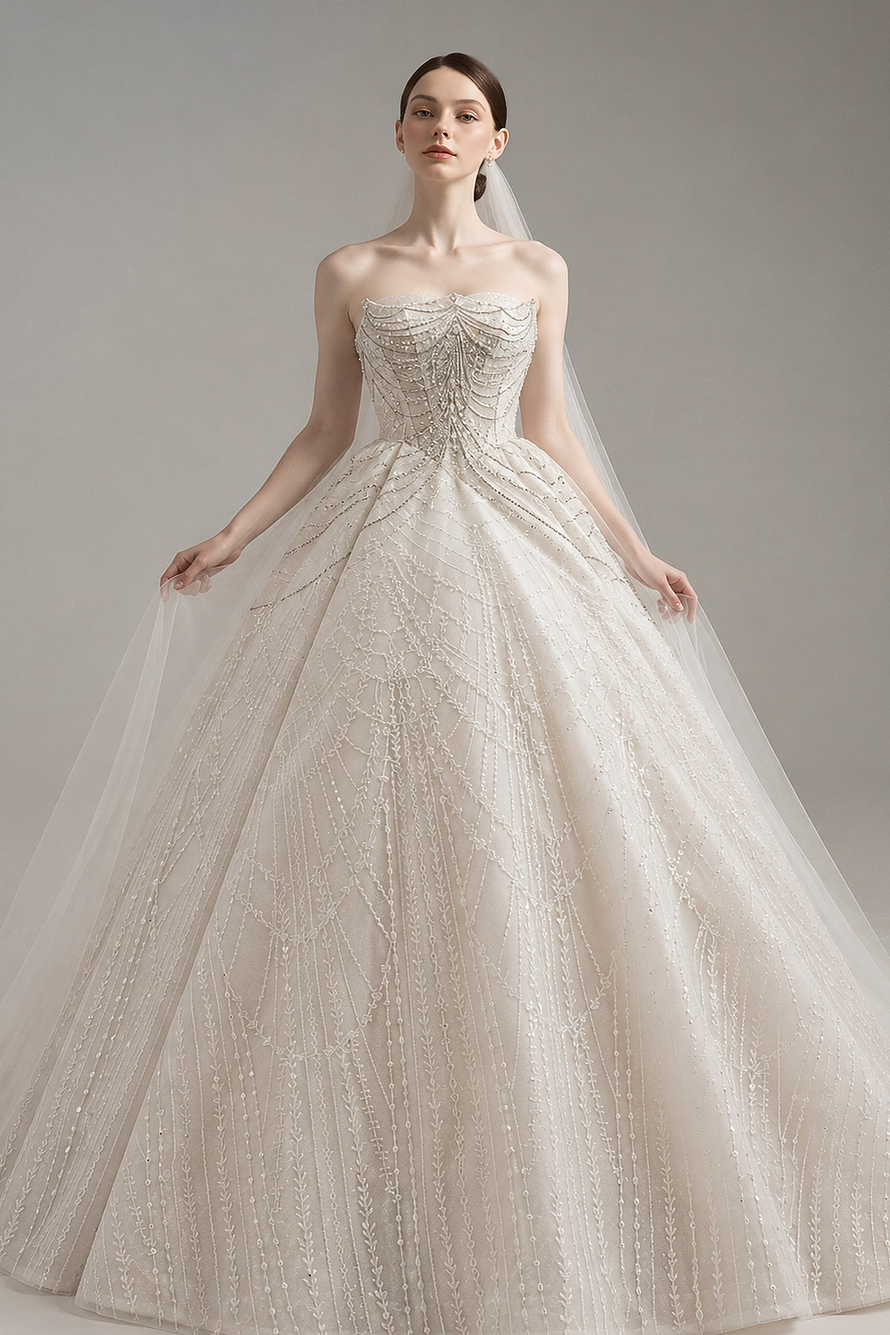
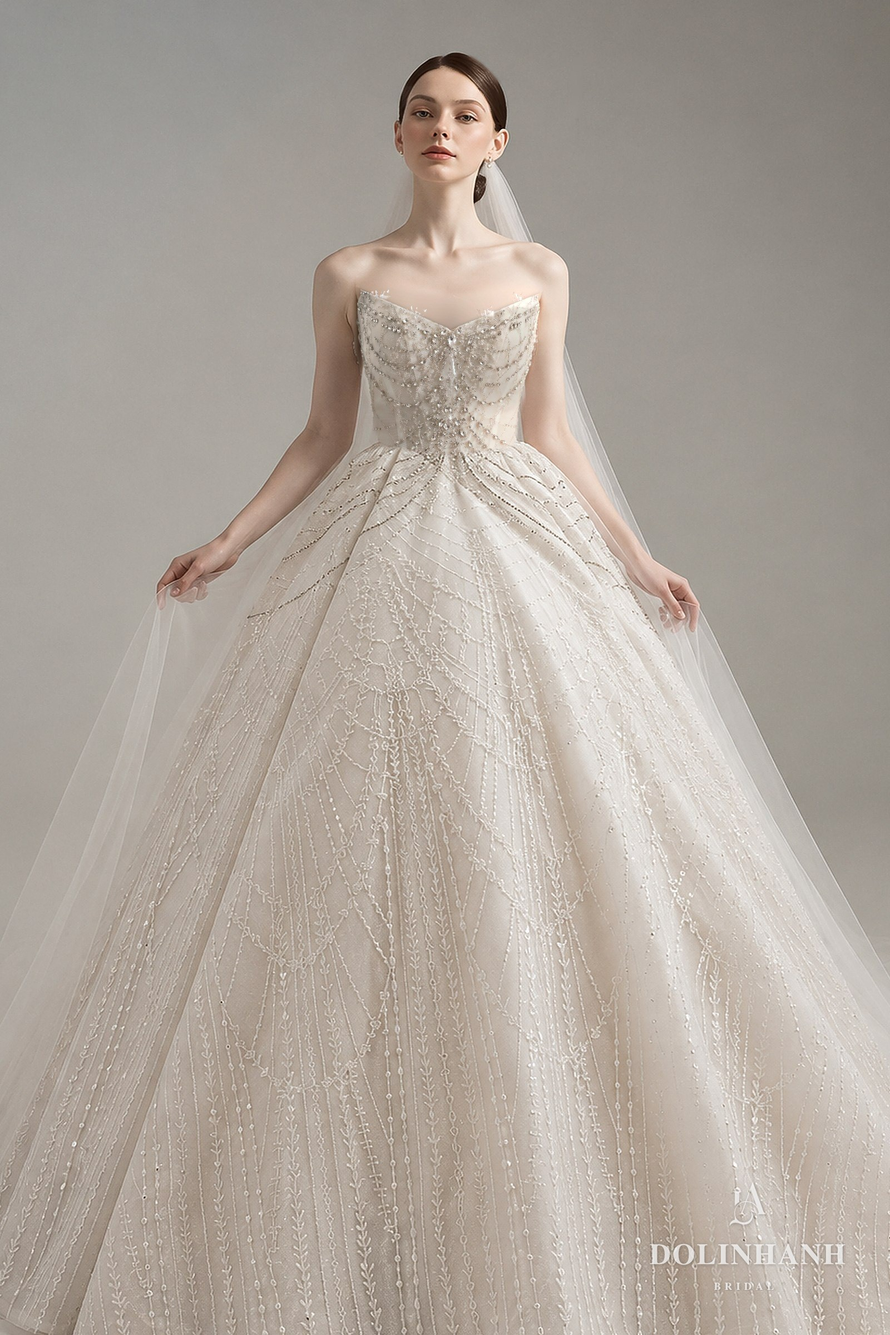
V183: MS 176: corset, neckline per real dress

diff --git a/bo-suu-tap.html b/bo-suu-tap.html
@@ -1629,7 +1629,7 @@ src="https://www.facebook.com/tr?id=1358640082651240&ev=PageView&noscript=1"
         </figure>
         <figure data-dang="ballgown" data-mood="timeless" data-coso="hcm">
           <div class="sl-khung">
-            <div class="sl" data-img="anh/vay/ms176/01.jpg"></div>
+            <div class="sl" data-img="anh/vay/ms176/01.jpg?v=0511"></div>
           </div>
           <figcaption><span class="kind" data-en="Dolinhanh Bridal" data-zh="Dolinhanh Bridal">Dolinhanh Bridal</span><span class="nm">MS 176</span><span class="de" data-en="Beaded corset, beaded full skirt" data-zh="钉珠束腰，钉珠大蓬裙">Thân đính kết, tùng xoè đính cườm</span><span class="gia">US$1,880</span></figcaption>
         </figure>
